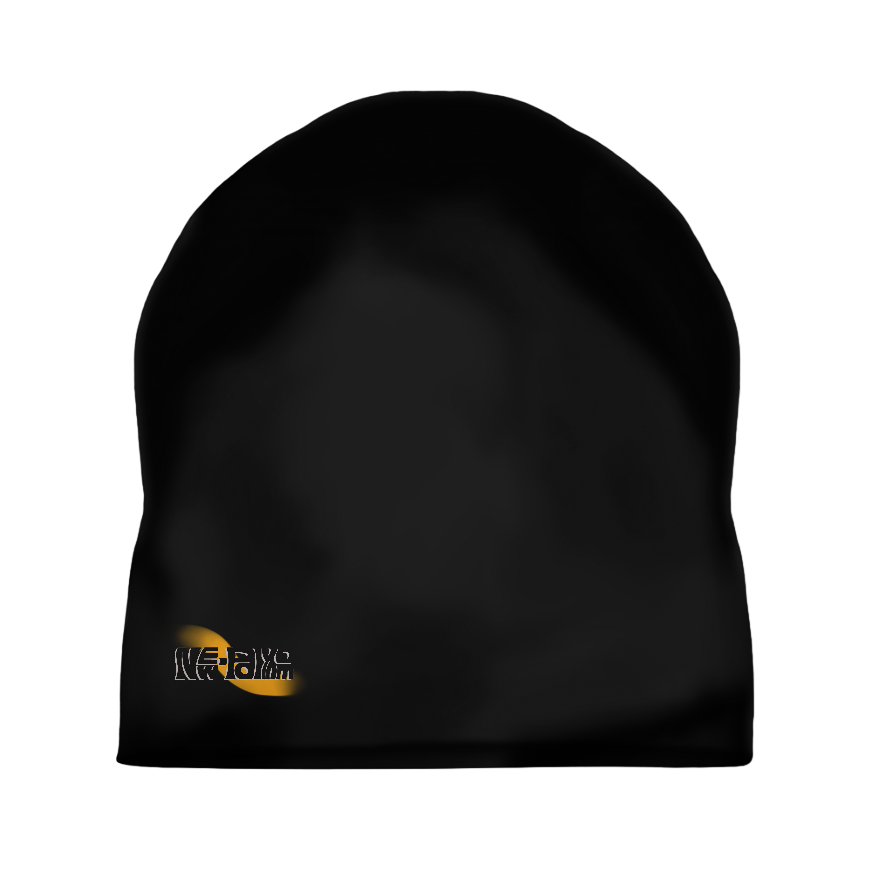
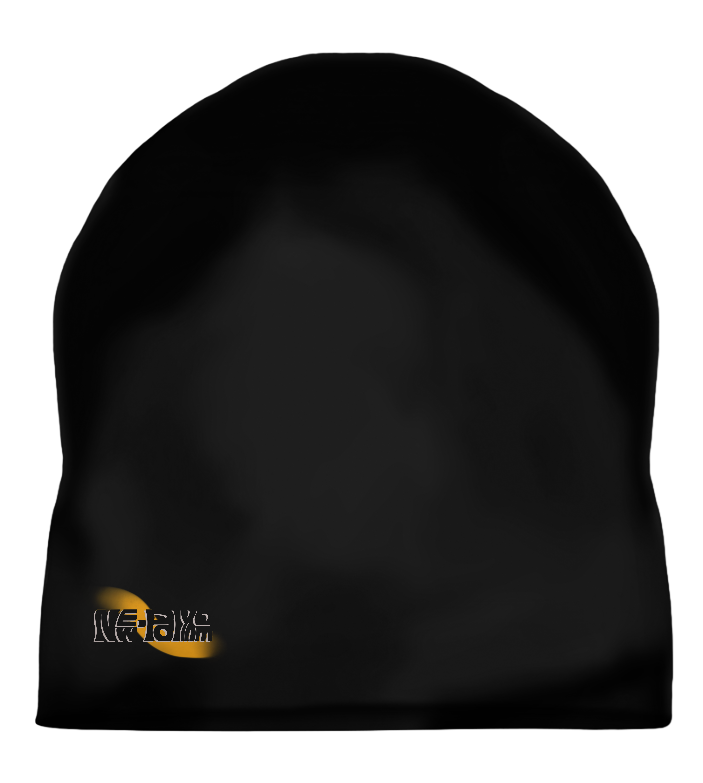
Урезал фон фоток

Changed region(s): [[0.0299, 0.0613, 0.9559, 0.9502]]

diff --git a/sait/www/korzina.html b/sait/www/korzina.html
@@ -1,0 +1,79 @@
+<!DOCTYPE html>
+<html lang="ru">
+  <head>
+    <meta charset="utf-8">
+    <title>Корзина товаров | New-Polynom</title>
+    <link rel="stylesheet" href="css/style.css">
+    <link rel="stylesheet" href="css/light-theme.css">
+  </head>
+
+<body class="page">
+    <div class="wrapper">
+    <header class="site-header">
+      <div class="container">
+        <div class="container-text"> 
+          <h1>New-Polynom</h1>
+          <p>Стильная одежда от вашей любимой вокальной студии</p>
+          
+          <div class="menu">
+            <a href="#" class="menu-btn">
+              <img src="icons/menustat.png" width="45px" height="45px">
+            </a>
+            <ul class="nav">
+              <li><a href="website.html">Главная</a></li>
+              <li><a href="shop.html">Магазин</a></li>
+              <li><a href="contacts.html">Контакты</a></li>
+              <li><a href="about.html">О сайте</a></li>
+            </ul>
+          </div>
+        </div>
+        <div class="container-logo">
+          <img class="logotype" src="images/logotype.PNG">
+        </div>
+        <div class="container-button">
+        </div>
+        <div class="search" width="40px" height="40px">
+          <img class="search_btn" src="icons/search.png">
+            <div class="input">
+              <input id="Search" type="text" placeholder="Поиск">
+            </div>
+        </div>
+        <a href="#" class="auto-btn">
+          <img src="icons/accaunt.png" width="50px" height="50px">
+        </a>
+          <div class="form-box">
+              <div id="auto_id" class="auto-container">
+                <h1>Вход</h1>
+                <form class="autorisation">
+                  <input id="Login" type="text" placeholder="Логин">
+                  <input id="Password" type="password" placeholder="Пароль">
+                  <input type="submit" value="Войти">
+                </form>
+                <a href="#" class="forget">Зарегистрироваться</a>
+            </div>
+
+            <div id="reg_id"class="reg-container">
+              <h1>Регистрация</h1>
+              <form class="registration">
+                <input id="New_Login" type="text" placeholder="Логин">
+                <input id="Mail" type="text" placeholder="Почта">
+                <input id="New_Password" type="text" placeholder="Придумайте пароль">
+                <input type="submit" value="Зарегистрироваться">
+              </form>
+              <a href="#" class="signin">Вход</a>
+            </div>
+          </div>
+      </div>
+    </header>
+
+
+    <footer class="site-footer">
+        <div class="containerf">
+          <p>© Вишняков Калинин Щелкунов<br> 2023</p>
+          <p>New-Polynom магазин мерча</p>
+        </div>
+      </footer>
+      <script src="script.js"></script>
+    </div>
+    </body>
+  </html>

diff --git a/sait/www/t-shirt.html b/sait/www/t-shirt.html
@@ -80,7 +80,7 @@
             <p class="site-main-details-text">Черная футболка с логотипом вокальной студии New-Polynom.</p>
 
             <div class="site-main-details-price">
-                <span class="site-main-details-price-price">1 500 ₽ <small>Delivery is free</small></span>
+                <span class="site-main-details-price-price">1 499 ₽ <small>Delivery is free</small></span>
                 
                 <div class="site-main-details-price-action"><button class="btn">В корзину</button>
                 </div> 

diff --git a/sait/www/shapka.html b/sait/www/shapka.html
@@ -73,7 +73,7 @@
 
     <main class="site-main">
          <div class="site-main-photo">
-            <img src="clothes/Шапка.png" alt="Футболка New-Polynom фронт">
+            <img src="clothes/Шапка.png" alt="Футболка New-Polynom фронт" width="400px" height="480px">
          </div> 
         <div class="site-main-details">
             <h1 class="site-main-details-title"> Шапка New-Polynom (чёрная)</h1>
